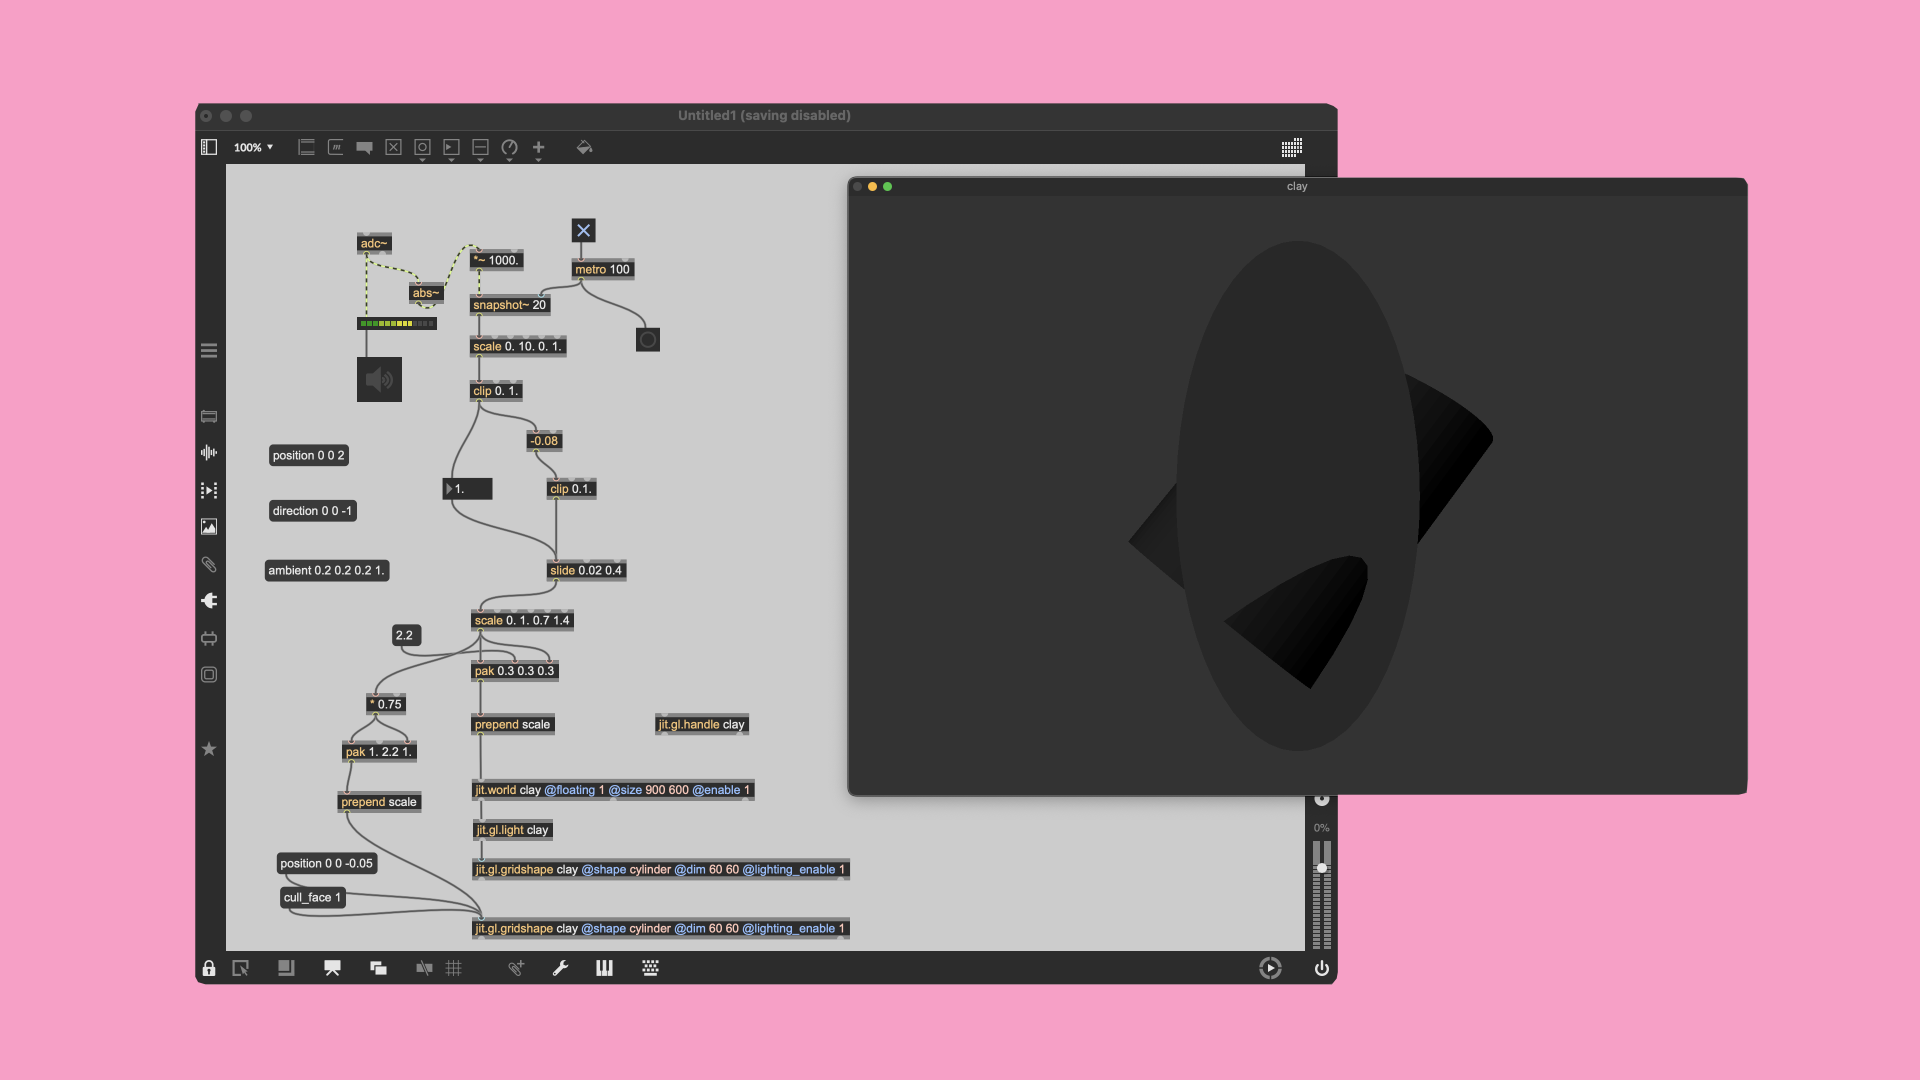
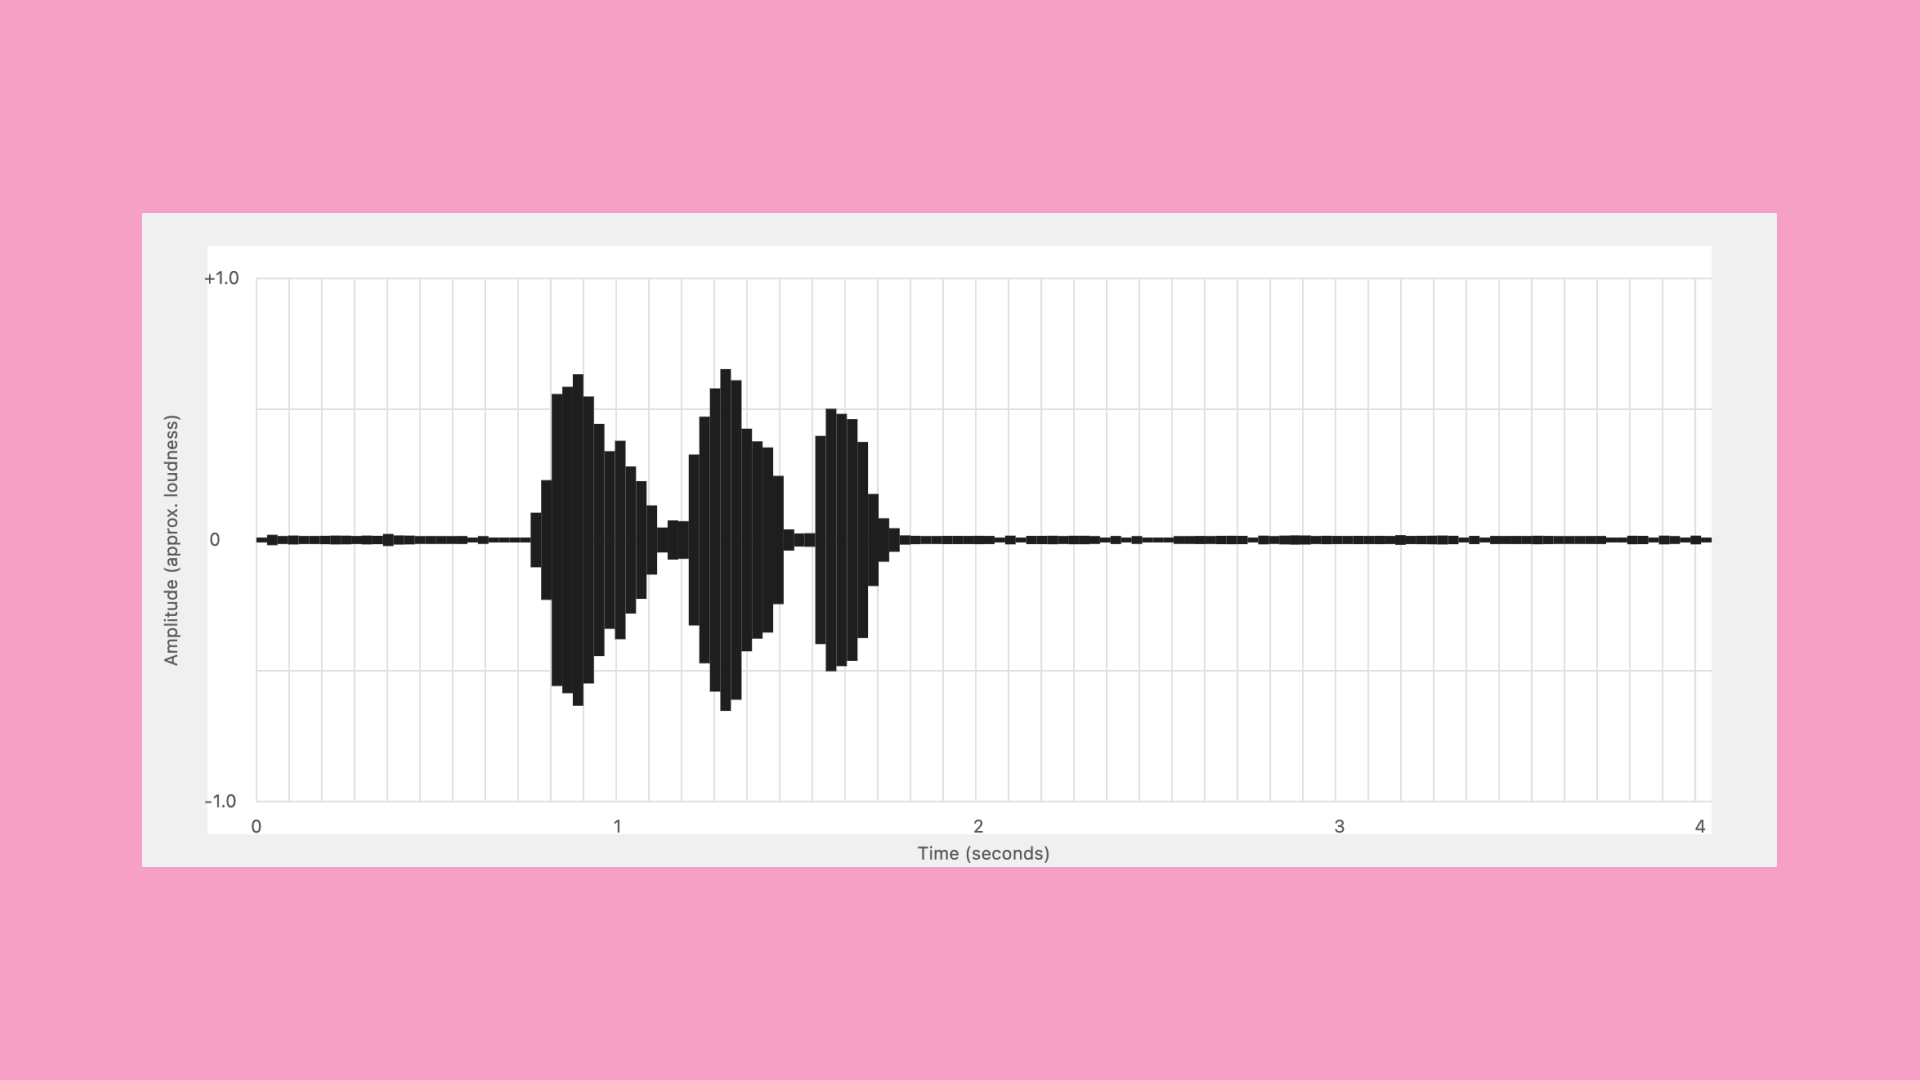
20260520

diff --git a/01/kludging.html b/01/kludging.html
@@ -42,25 +42,20 @@
                 <section class="section" id="overview">
                     <h2 class="h2">Overview</h2>
                     <p class="p">
-                        This project investigates how real-time sound can generate the form of a virtual ceramic vessel.
-                        Using Max/MSP for live audio analysis and p5.js for 3D visualization, I will build a system
-                        where sound frequency data determines the shape of a container in real time.
-
-                        Rather than manually modeling a vessel, the form will emerge from sound input. Low and high
-                        frequency ranges will influence parameters such as width, curvature, and volume, allowing voice
-                        or environmental noise to sculpt the object dynamically.
+                        This project transforms real-time sound data into a dynamic three-dimensional ceramic vessel
+                        form. Using a microphone to capture ambient sound, the system analyzes the audio through Fast
+                        Fourier Transform (FFT), then maps the energy of different frequency bands onto the radius of a
+                        rotational vessel profile. Built through the logic of wheel-throwing, the vessel continuously
+                        deforms in response to sound: low frequencies shape the width and volume of the body, while
+                        higher frequencies disturb the contour of the neck and shoulder. Each moment of sound rewrites
+                        the form of the object.
                         <br><br>
-                        The focus of this project is not to build a complete virtual ceramics tool, but to identify and
-                        construct one small critical component:
-                        <br><br>
-                        A clear mapping system between sound frequency data and vessel geometry.
-                        <br><br>
-                        This requires kludging together real-time FFT analysis, parameter smoothing, and 3D deformation.
-                        The system may be imperfect or unstable, and those imperfections will be embraced as part of the
-                        exploratory process.
-
-                        By isolating this sound-to-form translation layer, the project explores how computational data
-                        can behave like a material force, shaping digital form through live interaction.
+                        Rather than focusing on the creation of a complete virtual ceramics tool, this project centers
+                        on the moment of translation between sound and material form. It asks what happens when
+                        temporal, fluid, and unstable sonic data attempts to become fixed as volume, contour, and mass.
+                        In this process, tensions emerge between computational logic and the constraints of ceramic
+                        form—between mapping and making, signal and surface, control and failure. The vessel never fully
+                        stabilizes; it exists only within the ongoing present of sound.
                     </p>
 
                 </section>
@@ -91,119 +86,194 @@
 
 
                     <p class="p">
-                        At the beginning of the project, I intended to use the Freesound API as my primary data source.
-                        Because my thesis focuses on sound, I was interested in retrieving audio samples based on
-                        keywords or visual input (such as images) in order to explore how sound can be generated or
-                        associated through semantic or contextual metadata. However, at that stage, I was not yet
-                        familiar with how to properly use API keys and authentication, which made it difficult to
-                        implement Freesound within the limited timeframe of the assignment.
-
-                        As a result, I shifted to using the iTunes Search API as an alternative. The iTunes API allowed
-                        me to fetch music data without authentication, making it more accessible for rapid prototyping.
-                        When the user triggers the fetch action, the system randomly selects a song from the API
-                        results. Each retrieved track includes structured information such as the song title, genre,
-                        duration, album name, and a direct link to its iTunes page. This information then becomes the
-                        basis for further interaction and data exchange within the project.
+                        This code was first developed as a tool for translating sound into a physical ceramic-making
+                        instrument. Rather than using sound only as a visual waveform, the program analyzes an audio
+                        file in p5.js and records its amplitude over time. Each moment of sound is compressed into a
+                        series of vertical pixel columns, where louder moments create taller forms and quieter moments
+                        create smaller ones. Through adjustable controls such as pixel resolution and amplitude scale,
+                        the waveform can shift between a rough, tool-like contour and a more detailed acoustic profile.
+                        <br><br>
+                        The exported waveform becomes a profile that can be laser-cut into a rib tool for wheel
+                        throwing. In this process, sound is not directly turned into a vessel, but into a shaping
+                        device: an intermediate object that carries the trace of sound and transfers it onto clay
+                        through touch, pressure, and rotation. The code therefore creates a bridge between digital audio
+                        data and hand-based ceramic making.
                     </p>
 
                     <figure class="figure">
                         <img src="02.png" alt="System diagram">
                     </figure>
 
-                    <figure class="figure">
-                        <img src="01/itunes.png" alt="System diagram">
-                    </figure>
-
-                    
-
-
-                    <p class="p">
-                        A single user action serves as the entry point of the system. A button click triggers a sequence
-                        of hidden processes, beginning with a loading state and followed by an API request.
-                    </p>
-
-                    
-
-                    <p class="p">
-
-                        A predefined list of sound-related keywords is used as a controlled input pool, from which one
-                        term is randomly selected to guide each API request.
-                    </p>
-
-                    
-
-                    <p class="p">
-
-                        The selected keyword is converted into a structured API request URL, sent to the server via a
-                        fetch call, and parsed from the returned JSON data for further processing.
-                    </p>
-
-                    
-
-                    <p class="p">
-
-                        The API response is translated from structured JSON data into visual text and playable sound,
-                        turning metadata into an interactive audiovisual interface.
-                    </p>
-
-                    <figure class="figure">
-                        <img src="01/test1.png" alt="System diagram">
-                    </figure>
-
-                    <p class="p">
-                        After learning how to obtain and use an API key, and in response to the assignment requirement
-                        to connect two APIs, I linked the iTunes Search API with the Freesound API. Information
-                        retrieved from a randomly selected song—such as its title or genre—is used as input to query
-                        Freesound, which returns a related but unpredictable sound effect. This process allows data from
-                        one system to trigger a second system, forming a chained interaction.
-                    </p>
-
-
-                    <figure class="figure">
-                        <img src="01/apikey.png" alt="System diagram">
-                    </figure>
-
-                    
-
-                    <p class="p">
-                        This code represents the core Rube Goldberg–style chain of the project. Data retrieved from the
-                        iTunes API is not treated as a final result, but instead becomes the input for a second system.
-                        The selected song directly informs the FreeSound query, demonstrating a clear API-chaining
-                        structure in which one API response triggers another.
-                    </p>
-
-                    
-
-                    <p class="p">
-                        This part of the code functions as a translation mechanism, converting music metadata, such as
-                        song title, artist name, and genre, into meaningful search queries for the FreeSound API. Rather
-                        than performing a random search, the system follows a structured strategy with multiple fallback
-                        options, ensuring that the generated sound queries remain contextually related while still
-                        allowing for unpredictability.
-                    </p>
-
-                    
-
-                    <p class="p">
-                        This section handles the second API request, using an authenticated call with an API key to
-                        access the FreeSound database. The request specifies selected fields to reduce unnecessary data
-                        and filters the results to include only sounds with playable previews, ensuring that the
-                        returned data can be directly translated into an audible output.
-                    </p>
-
                     <pre class="code-block"><code>
-for (const q of queries) {
-  const sound = await searchFreeSoundOnce(q);
-  if (sound) return { sound, queryUsed: q };
+function recordCurrentFrame() {
+  let wave = fft.waveform(); // Array of [-1, 1]
+
+  let peak = 0;
+  let sumsq = 0;
+
+  for (let i = 0; i < wave.length; i++) {
+    let v = wave[i];
+    let av = Math.abs(v);
+
+    if (av > peak) peak = av;
+    sumsq += v * v;
+  }
+
+  let rms = Math.sqrt(sumsq / wave.length);
+
+  // Combined amplitude: smooth + strong peaks
+  let amp = 0.7 * rms + 0.3 * peak;
+  amp = constrain(amp, 0, 1);
+
+  let t = sound.currentTime();
+
+  // Store sound as time + amplitude data
+  recordedWave.push({ t: t, a: amp });
 }
-return null;
 </code></pre>
 
                     <p class="p">
-                        This section implements a multi-path search strategy, allowing the system to attempt multiple
-                        queries rather than stopping at the first failure. By iterating through different keyword
-                        combinations and fallback options, the machine continues exploring until a valid sound is found,
-                        reinforcing the idea of a chained, self-adjusting system rather than a single linear action.
+                        This code is the core sound-to-data translation. It reads the audio waveform, calculates the
+                        sound's amplitude by combining overall loudness and peak intensity, and stores each value with
+                        its timestamp. These time-amplitude points become the basis for generating the waveform profile,
+                        the laser-cut rib tool, and later the 3D vessel form.
+                    </p>
+
+
+                    <figure class="figure">
+                        <img src="03.png" alt="System diagram">
+                    </figure>
+
+
+
+
+                    <p class="p">
+                        I use Three.js because it allows sound data to become a real-time 3D form in the browser. My
+                        earlier p5.js code translated sound into a flat waveform for making a laser-cut rib tool, but
+                        Three.js extends this logic into volume. It allows the waveform or FFT data to shape the height,
+                        radius, and surface of a virtual ceramic vessel. Instead of modeling a fixed object, the system
+                        generates a form that continuously responds to sound, making the vessel a live translation
+                        between sonic data and ceramic geometry.
+                    </p>
+
+
+
+                    <figure class="figure">
+                        <img src="04.png" alt="System diagram">
+                    </figure>
+
+                    <h2 class="h2">Code 1: Extracting the sound spectrum</h2>
+
+                    <pre class="code-block"><code>
+function getMicFFT() {
+  let spectrum = fftAnalyser.analyze();
+
+  let binSize = floor(spectrum.length / NUM_BINS);
+  let raw = new Float32Array(NUM_BINS);
+
+  for (let i = 0; i < NUM_BINS; i++) {
+    let sum = 0;
+    for (let j = 0; j < binSize; j++) {
+      sum += spectrum[i * binSize + j];
+    }
+    raw[i] = sum / binSize / 255;
+  }
+
+  let peak = 0;
+  for (let i = 0; i < NUM_BINS; i++) {
+    if (raw[i] > peak) peak = raw[i];
+  }
+
+  if (peak > 0.001) {
+    for (let i = 0; i < NUM_BINS; i++) {
+      raw[i] = raw[i] / peak;
+    }
+  }
+
+  return raw;
+}
+</code></pre>
+
+                    <p class="p">
+                        This section reads live microphone input as FFT spectrum data, compresses the spectrum into 64
+                        frequency bands, and normalizes the values into a 0–1 range. These values become the raw sound
+                        material used to deform the vessel.
+                    </p>
+                    <br><br>
+                    <h2 class="h2">Code 2: Converting sound data into a vessel profile</h2>
+
+                    <pre class="code-block"><code>
+function getProfile(fftData, distortion) {
+  let eq  = equaliseFFT(fftData);
+  let pts = [];
+  let totalH = 260;
+
+  pts.push(createVector(0, totalH / 2));
+
+  for (let i = 0; i < NUM_BINS; i++) {
+    let t = i / (NUM_BINS - 1);
+    let y = totalH / 2 - t * totalH;
+
+    let bias;
+    if      (t < 0.10) bias = 0.30 + t * 3.5;
+    else if (t < 0.48) bias = 1.00 + (t - 0.10) * 0.20;
+    else if (t < 0.70) bias = 1.08 - (t - 0.48) * 1.60;
+    else               bias = 0.65 + (t - 0.70) * 0.50;
+
+    let r = 4 + bias * 55 + eq[i] * distortion * 20;
+    pts.push(createVector(r, y));
+  }
+
+  return pts;
+}
+</code></pre>
+
+
+
+
+                    <p class="p">
+                        This function is the core sound-to-form mapping. Each FFT value is assigned to a vertical
+                        position on the vessel and converted into a radius. A built-in bias creates a basic ceramic
+                        profile, while the sound data adds deformation to the body, shoulder, and neck.
+                    </p>
+                    <br><br>
+                    <h2 class="h2">Code 3: Rotating the profile into a 3D vessel</h2>
+
+                    <pre class="code-block"><code>
+function drawStrip(p0, p1, si, wire) {
+  let c0 = cosTable[si],   s0 = sinTable[si];
+  let c1 = cosTable[si+1], s1 = sinTable[si+1];
+
+  let x00 = p0.x * c0;
+  let z00 = p0.x * s0;
+  let y00 = p0.y;
+
+  let x10 = p1.x * c0;
+  let z10 = p1.x * s0;
+  let y10 = p1.y;
+
+  let x01 = p0.x * c1;
+  let z01 = p0.x * s1;
+  let y01 = p0.y;
+
+  let x11 = p1.x * c1;
+  let z11 = p1.x * s1;
+  let y11 = p1.y;
+
+  beginShape();
+  vertex(x00, y00, z00);
+  vertex(x10, y10, z10);
+  vertex(x11, y11, z11);
+  vertex(x01, y01, z01);
+  endShape(CLOSE);
+}
+</code></pre>
+
+
+                    <p class="p">
+                        This section converts the 2D vessel profile into a 3D rotational form. Each profile point uses
+                        its radius and height to generate circular coordinates around the central axis, producing a
+                        mesh-like ceramic vessel.
                     </p>
                 </section>
 
@@ -211,12 +281,16 @@ return null;
                 <section class="section" id="result">
                     <h2 class="h2">Result</h2>
                     <p class="p">
-                        This video shows a successful connection test of the Arduino system, demonstrating basic sensor
-                        input and system response before final integration.
+                        This coding system translates live sound into a responsive 3D ceramic vessel. Microphone input
+                        is analyzed through FFT, compressed into frequency bands, and mapped onto the vessel's vertical
+                        profile. A base ceramic logic defines the body, shoulder, neck, and opening, while sound data
+                        continuously changes the radius and surface of the form. By rotating this sound-driven profile
+                        into three dimensions, the code creates a live vessel that is not manually modeled, but
+                        generated through the interaction between sound, data, and ceramic form.
                     </p>
 
                     <figure class="figure">
-                        <iframe src="https://www.youtube.com/embed/TreKEsT2AOI" title="WWW as a Rube Goldberg machine"
+                        <iframe src="https://www.youtube.com/embed/H9O6JUwGYn8?si=mMyOcgsJRDKYiVom" title="Kludging as a Creative Method"
                             allowfullscreen>
                         </iframe>
 
